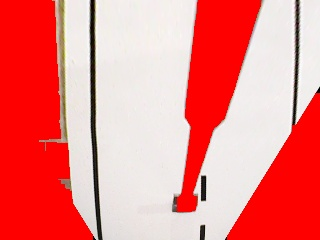
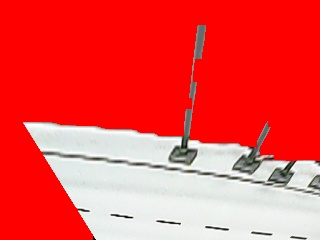
.

diff --git a/shared/cam_utils/extract_track.py b/shared/cam_utils/extract_track.py
@@ -9,15 +9,26 @@ from overhead_warp import overhead_warp_img
 
 
 def preview(img):
-    return
+    return  # comment this line for previews at each step
     img = cv2.resize(img, (320, 320), interpolation=cv2.INTER_NEAREST_EXACT)
     if len(img.shape) < 3 or img.shape[2] != 3:
         img = cv2.cvtColor(img, cv2.COLOR_GRAY2BGR)
     cv2.imshow("", img)
     cv2.waitKey(0)
-
+    
 
 def extract_track(img, state_size=30):
+    preview(img)
+    
+    img = overhead_warp_img(img)
+    preview(img)
+    
+    img = cv2.cvtColor(img, cv2.COLOR_BGR2HSV)
+    
+    
+
+
+def extract_track_(img, state_size=30):
     img = overhead_warp_img(img)
 
     preview(img)
@@ -48,7 +59,7 @@ def extract_track(img, state_size=30):
     # Apply mask to original image, make unmasked areas red
     img[mask == 0] = [0, 0, 255]
 
-    cv2.imwrite("utils/track.jpg", img)
+    # cv2.imwrite("utils/track.jpg", img)
 
     img = cv2.cvtColor(img, cv2.COLOR_BGR2HSV)
 
@@ -72,7 +83,8 @@ if __name__ == "__main__":
         example = np.zeros((240*2, 240, 3), dtype=np.uint8)
         
         id = np.random.randint(1, 13000)
-        path = f"/Users/jckpn/dev/picar/data/training_data/training_data/{id}.png"
+        # path = f"/Users/jckpn/dev/picar/data/training_data/training_data/{id}.png"
+        path = "/Users/jckpn/Desktop/Screenshot 2024-05-05 at 13.36.32.png"
         img = cv2.imread(path)
         track = extract_track(img.copy()) * 255
         img = cv2.resize(img, (240, 240), interpolation=cv2.INTER_NEAREST_EXACT)

diff --git a/shared/cam_utils/overhead_warp.py b/shared/cam_utils/overhead_warp.py
@@ -42,9 +42,3 @@ if __name__ == "__main__":
     cv2.imshow("img", img)
     cv2.waitKey(0)
     cv2.destroyAllWindows()
-
-    img = cv2.resize(img, (30, 30))
-    img = (img > 0).astype(int)
-    
-    for row in img:
-        print("".join(["[1]," if x[0] else "[0]," for x in row]))
